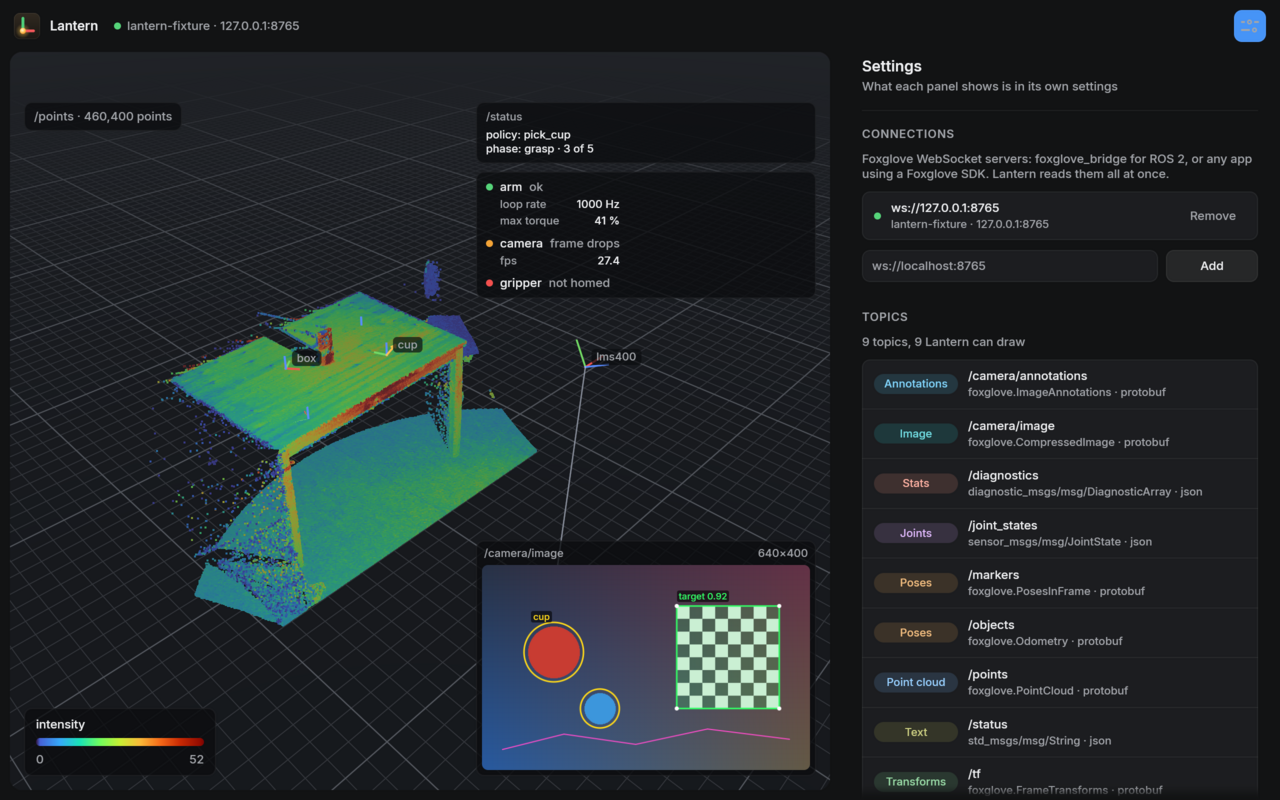
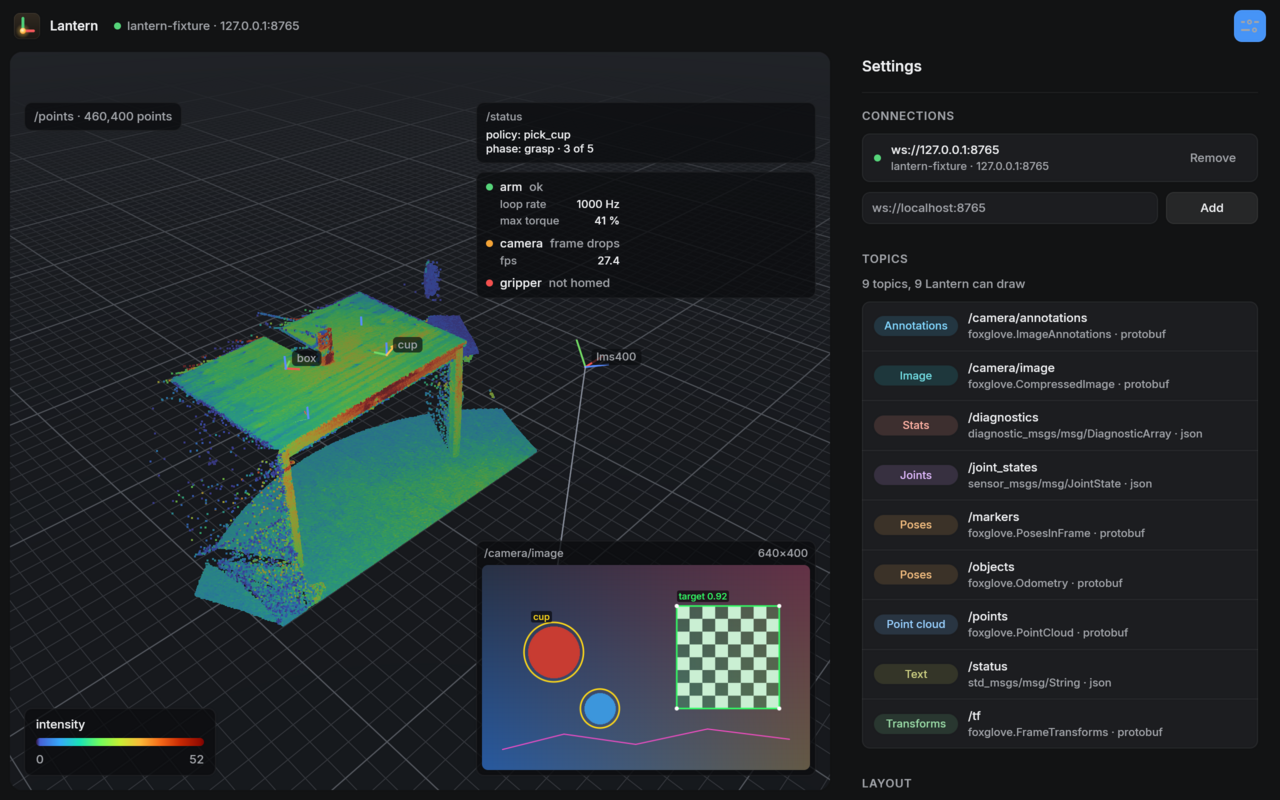
fix: cut explanatory subtext from the app and docs
The Settings page loses its subtitle and section blurbs, the 3D view's Scene and Robot tabs their hints, and empty states shrink to a few words. The Cards tab is hidden when no cards apply. The docs drop sentences that restate headings, images or other pages.

diff --git a/src/ui.rs b/src/ui.rs
@@ -190,15 +190,12 @@ fn status_chip(s: &State, max_w: f32) -> Option<El> {
     // the robot the server describes) and what the data is missing, so a server that's offline
     // doesn't hide what's wrong with the others' data.
     let conns = s.connections();
-    let connection = if conns.is_empty() {
-        Some("No servers: add one in Settings".to_string())
-    } else {
-        conns.iter().find_map(|c| match &c.received.status {
-            Status::Failed { error } => Some(format!("Can't reach {}: {error}", c.url)),
-            Status::Connecting => Some(format!("Connecting to {}…", c.url)),
-            Status::Connected { .. } => None,
-        })
-    };
+    // No servers at all is the top bar's to say.
+    let connection = conns.iter().find_map(|c| match &c.received.status {
+        Status::Failed { error } => Some(format!("Can't reach {}: {error}", c.url)),
+        Status::Connecting => Some(format!("Connecting to {}…", c.url)),
+        Status::Connected { .. } => None,
+    });
     let robot = match (s.robot_file(), s.robot_description(), s.robot_mismatch()) {
         (_, _, Some(m)) => Some(format!("Robot: {m}")),
         (Some(Err(e)), _, _) => Some(format!("Robot: {e}")),
@@ -209,7 +206,7 @@ fn status_chip(s: &State, max_w: f32) -> Option<El> {
     let data = match (&s.display.problem, warning) {
         (Some(p), _) => Some(p.clone()),
         (None, Some(w)) => Some(format!("Server: {w}")),
-        (None, None) if conns.iter().all(|c| c.received.channels.is_empty()) => Some("Connected; the server offers no topics yet".into()),
+        (None, None) if !conns.is_empty() && conns.iter().all(|c| c.received.channels.is_empty()) => Some("No topics".into()),
         _ => None,
     };
     let messages: Vec<String> = [connection, robot, data].into_iter().flatten().collect();
@@ -314,7 +311,7 @@ pub(crate) fn picture(s: &State, view: &ImageSettings, key: impl Into<String>, i
 
 /// "and N more …", when a card shows only the first of its items.
 fn more(n: usize, what: &str) -> Option<El> {
-    (n > 0).then(|| text(format!("and {n} more {what}: hide topics in the 3D view's settings")).font(SMALL).color(tok::theme(true).text_secondary))
+    (n > 0).then(|| text(format!("and {n} more {what}")).font(SMALL).color(tok::theme(true).text_secondary))
 }
 
 /// The newest message of the cards' first `TEXT_CARDS` text topics.
@@ -426,9 +423,7 @@ fn color_choices(key: &'static str, s: &State) -> El {
 /// (`panel_settings`).
 fn settings_page(s: &State) -> El {
     let t = tok::theme(true);
-    let top = col().gap(3.0)
-        .child(text("Settings").font(TextStyle::new(15.0, 600.0).lh(20.0)).color(t.text))
-        .child(text("What each panel shows is in its own settings").font(type_::LABEL).color(t.text_secondary));
+    let top = text("Settings").font(TextStyle::new(15.0, 600.0).lh(20.0)).color(t.text);
 
     let body = col().w_full().gap(28.0).px(SETTINGS_PAD).pb(24.0)
         .child(connection_section(s))
@@ -458,8 +453,7 @@ fn connection_section(s: &State) -> El {
                 }),
         );
     let add = fitted_button("connect", "Add", State::add_connection).w(92.0).min_w(92.0);
-    let mut sec = section("Connections")
-        .child(text("Foxglove WebSocket servers: foxglove_bridge for ROS 2, or any app using a Foxglove SDK. Lantern reads them all at once.").font(type_::LABEL).color(t.text_secondary).max_lines(3));
+    let mut sec = section("Connections");
     if !s.connections().is_empty() {
         let mut list = col().key("connections").radius(tok::radius::MD).fill(t.card).border(1.0, t.card_border);
         for (i, c) in s.connections().iter().enumerate() {
@@ -500,7 +494,7 @@ pub(crate) fn topics(s: &State, prefix: &str) -> El {
     let conns = s.connections();
     let total: usize = conns.iter().map(|c| c.received.channels.len()).sum();
     if total == 0 {
-        return text("No topics yet. Topics appear here as the servers advertise them.").font(type_::LABEL).color(t.text_secondary).max_lines(3);
+        return text("No topics").font(type_::LABEL).color(t.text_secondary);
     }
     let mut list = col().key(format!("{prefix}s")).radius(tok::radius::MD).fill(t.card).border(1.0, t.card_border);
     let mut i = 0;
@@ -590,13 +584,10 @@ fn layout_section(s: &State) -> El {
         Err(e) => text(e.clone()).font(type_::LABEL).color(oklch(0.72, 0.17, 25.0)).max_lines(4),
     });
     section("Layout")
-        .child(text("Point at a panel for its header: drag its name to move it (onto another's middle to swap them), or use its menu to split, change or close it. Drag the gap between two panels to resize them.").font(type_::LABEL).color(t.text_secondary).max_lines(4))
         .child(field("Presets", presets))
-        .child(text("A preset keeps the settings of the panels it has in common with the layout.").font(type_::LABEL).color(t.text_secondary).max_lines(2))
-        .child(field_note("Layout file", "The panels with their settings. Save writes the layout to this file. Load reads a file, or a preset by name. To start with one: lantern --layout FILE."))
-        .child(row().gap(8.0).child(input)
+        .child(field("Layout file", row().gap(8.0).child(input)
             .child(fitted_button("load-layout", "Load", State::load_layout).w(64.0).min_w(64.0))
-            .child(fitted_button("save-layout", "Save", State::save_layout).w(64.0).min_w(64.0)))
+            .child(fitted_button("save-layout", "Save", State::save_layout).w(64.0).min_w(64.0))))
         .children(note.map(|n| n.key("layout-file-note")))
 }
 
@@ -647,12 +638,15 @@ fn panel_settings(s: &State, k: &Kit, layer: &mut Vec<El>, path: &[usize], p: &P
     let t = tok::theme(true);
     let (tabs, body) = match p {
         Panel::View3d(v) => {
-            let tabs = Tab3d::ALL.map(|tab| (tab, tab.label()));
-            let bar = segmented("tab", &tabs, s.tab_3d, |s, tab| {
+            // Cards only while the layout lacks an Image or a Data panel.
+            let cards = s.card_for(PanelKind::Image).is_some() || s.card_for(PanelKind::Data).is_some();
+            let tabs: Vec<_> = Tab3d::ALL.into_iter().filter(|t| cards || *t != Tab3d::Cards).map(|tab| (tab, tab.label())).collect();
+            let tab = if tabs.iter().any(|(t, _)| *t == s.tab_3d) { s.tab_3d } else { Tab3d::Scene };
+            let bar = segmented("tab", &tabs, tab, |s, tab| {
                 s.tab_3d = tab;
                 s.close_picker();
             });
-            (Some(bar.w_full()), view3d_settings(s, k, layer, v))
+            (Some(bar.w_full()), view3d_settings(s, k, layer, v, tab))
         }
         Panel::Image(view) => (None, image_settings(s, k, layer, view, "image-panel", &panel_lens(path, |p| match p {
             Panel::Image(i) => Some(i),
@@ -675,10 +669,9 @@ fn panel_settings(s: &State, k: &Kit, layer: &mut Vec<El>, path: &[usize], p: &P
 }
 
 /// The tab of the 3D view's settings on show.
-fn view3d_settings(s: &State, k: &Kit, layer: &mut Vec<El>, v: &View3dSettings) -> El {
-    let t = tok::theme(true);
+fn view3d_settings(s: &State, k: &Kit, layer: &mut Vec<El>, v: &View3dSettings, tab: Tab3d) -> El {
     let body = col().w_full().gap(10.0);
-    match s.tab_3d {
+    match tab {
         Tab3d::Scene => {
             let frames = s.display.tf.frames();
             body.child(picker(s, k, layer, "fixed-frame", "Fixed frame", &v.fixed_frame, s.display.fixed.as_deref(), &frames, "not seen yet", |s, f| s.edit3d(|v| v.fixed_frame = f)))
@@ -686,7 +679,6 @@ fn view3d_settings(s: &State, k: &Kit, layer: &mut Vec<El>, v: &View3dSettings) 
                 .child(toggle_row("frames", "TF frames", v.frames, |s| s.edit3d(|v| v.frames ^= true)))
                 .child(toggle_row("labels", "Labels", v.labels, |s| s.edit3d(|v| v.labels ^= true)))
                 .child(field("Axis length", segmented("axis", &[(0.05, "5 cm"), (0.1, "10 cm"), (0.25, "25 cm"), (0.5, "50 cm"), (1.0, "1 m")], v.axis_length, |s, a| s.edit3d(|v| v.axis_length = a))))
-                .child(text("Drag to orbit, Shift-drag or middle-drag to pan, scroll to zoom. The panel's menu resets the view.").font(type_::LABEL).color(t.text_secondary).max_lines(3))
         }
         Tab3d::Points => {
             let clouds = s.topics_of(Kind::PointCloud);
@@ -704,18 +696,13 @@ fn view3d_settings(s: &State, k: &Kit, layer: &mut Vec<El>, v: &View3dSettings) 
         Tab3d::Robot => robot_settings(s, k, layer, v),
         // The cards stand in for the panels: with an Image or Data panel in the layout, it shows them.
         Tab3d::Cards => {
-            let note = |m: &str| text(m.to_string()).font(type_::LABEL).color(t.text_secondary).max_lines(2);
-            let body = if s.card_for(PanelKind::Image).is_none() {
-                body.child(note("The layout's Image panel shows the camera image."))
-            } else {
+            let body = if s.card_for(PanelKind::Image).is_some() {
                 body.child(toggle_row("show-image-card", "Camera image", v.image_card, |s| s.edit3d(|v| v.image_card ^= true)))
                     .children(v.image_card.then(|| image_settings(s, k, layer, &v.image, "card", &view3d_lens(|v| &mut v.image))))
-            };
-            if s.card_for(PanelKind::Data).is_none() {
-                body.child(note("The layout's Data panel shows text and stats."))
             } else {
-                body.child(data_settings(s, &v.data, "card", &view3d_lens(|v| &mut v.data)))
-            }
+                body
+            };
+            if s.card_for(PanelKind::Data).is_some() { body.child(data_settings(s, &v.data, "card", &view3d_lens(|v| &mut v.data))) } else { body }
         }
     }
 }
@@ -758,7 +745,7 @@ fn topic_switches(s: &State, key: &str, kind: Kind, hidden: &BTreeSet<String>, l
     let t = tok::theme(true);
     let topics = s.topics_of(kind);
     if topics.is_empty() {
-        return text(format!("No {} topics yet", kind.label().to_lowercase())).font(type_::LABEL).color(t.text_secondary);
+        return text(format!("No {} topics", kind.label().to_lowercase())).font(type_::LABEL).color(t.text_secondary);
     }
     let mut list = col().key(key.to_string()).w_full();
     for (i, topic) in topics.into_iter().enumerate() {
@@ -798,14 +785,14 @@ fn robot_settings(s: &State, k: &Kit, layer: &mut Vec<El>, v: &View3dSettings) -
         m.robot.name, m.robot.links.len(), m.robot.movable().count(), m.mesh.parts.len(), m.load_ms,
     );
     let status = match s.robot_file() {
-        None => note("Plain URDF (run xacro first), with STL meshes".into()),
-        Some(Err(e)) => text(e.clone()).font(type_::LABEL).color(error).max_lines(4),
-        Some(Ok(m)) => note(summary(m)),
+        None => None,
+        Some(Err(e)) => Some(text(e.clone()).font(type_::LABEL).color(error).max_lines(4)),
+        Some(Ok(m)) => Some(note(summary(m))),
     };
     let file = col().w_full().gap(6.0)
         .child(text("URDF file").font(type_::BODY).color(t.text))
         .child(row().gap(8.0).child(input).child(fitted_button("load-urdf", "Load", State::load_robot).h(30.0).px(14.0)))
-        .child(status.key("robot-status"));
+        .children(status.map(|s| s.key("robot-status")));
     let mut sec = col().w_full().gap(10.0)
         .child(toggle_row("robot", "Show", v.robot.show, |s| s.edit3d(|v| v.robot.show ^= true)))
         .child(file);
@@ -815,7 +802,7 @@ fn robot_settings(s: &State, k: &Kit, layer: &mut Vec<El>, v: &View3dSettings) -
     let descriptions = s.topics_of(Kind::RobotDescription);
     if !descriptions.is_empty() {
         let status = match s.robot_description() {
-            None => note("Nothing received yet".into()),
+            None => note("Not received".into()),
             Some((_, Err(e))) => text(e.clone()).font(type_::LABEL).color(error).max_lines(4),
             Some((_, Ok(m))) => note(summary(m)),
         };
@@ -842,7 +829,7 @@ fn robot_settings(s: &State, k: &Kit, layer: &mut Vec<El>, v: &View3dSettings) -
     let movable: Vec<&str> = m.robot.movable().collect();
     let received = match s.joints() {
         Some((_, j)) => format!("{} of {} joints received", movable.iter().filter(|n| j.contains_key(**n)).count(), movable.len()),
-        None => "No joint states yet: drawn at the URDF's zero pose".to_string(),
+        None => "No joint states".to_string(),
     };
     sec.child(picker(s, k, layer, "joint-topic", "Joint states", &v.robot.joint_topic, topics.first().map(String::as_str), &topics, "not advertised", |s, j| s.edit3d(|v| v.robot.joint_topic = j)))
         .child(note(received).key("joints-received"))
@@ -911,11 +898,6 @@ fn section(title: &str) -> El {
 fn field(label: &str, control: El) -> El {
     let t = tok::theme(true);
     col().gap(6.0).child(text(label).font(type_::LABEL).color(t.text)).child(control)
-}
-
-fn field_note(label: &str, note: &str) -> El {
-    let t = tok::theme(true);
-    col().gap(3.0).child(text(label).font(type_::LABEL).color(t.text)).child(text(note).font(type_::LABEL).color(t.text_secondary).max_lines(4))
 }
 
 /// A switch's track and knob, drawn for `on`.

diff --git a/README.md b/README.md
@@ -5,7 +5,7 @@
 A small RViz stand-in in Rust. It draws point clouds, TF, poses, a robot model and camera images
 from foxglove_bridge or any Foxglove SDK app. Linux only; needs a GPU with a Vulkan driver.
 
-![Lantern drawing a KUKA arm beside a table scan coloured by intensity, with TF axes and labelled objects.](docs/screenshots/robot-home-sdk.png)
+![A KUKA arm beside a table scan coloured by intensity, with TF axes and labelled objects.](docs/screenshots/robot-home-sdk.png)
 
 ```sh
 curl -fsSL https://raw.githubusercontent.com/matthewyjiang/lantern/main/scripts/install.sh | sh
